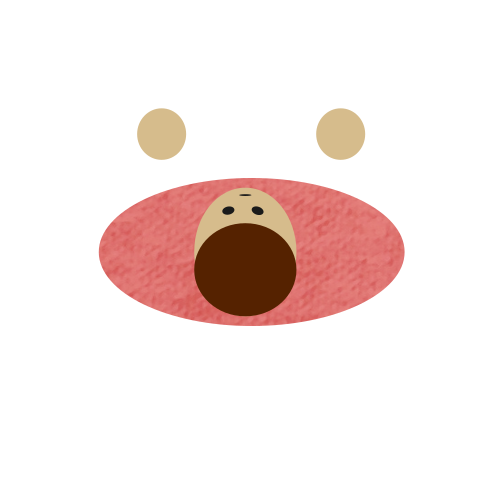
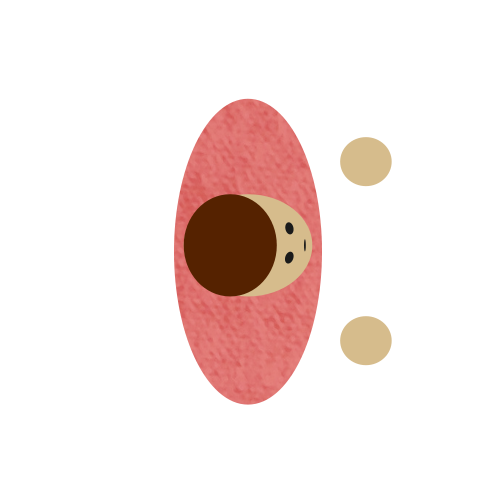
Yaka pull

Changed region(s): [[0.18, 0.18, 0.81, 0.81]]

diff --git a/src/drawing.rs b/src/drawing.rs
@@ -8,8 +8,8 @@ pub const OFFICE_HEIGHT: u32 = 900;
 pub const GAME_WINDOW_WIDTH: u32 = 1280;
 pub const GAME_WINDOW_HEIGHT: u32 = 720;
 
-pub const GLOBAL_STAT_WIDTH: u32 = 50;
-pub const GLOBAL_STAT_HEIGHT: u32 = 20;
+pub const GLOBAL_STAT_WIDTH: u32 = 1600;
+pub const GLOBAL_STAT_HEIGHT: u32 = 900;
 
 pub const PERSONNAL_STAT_WIDTH: u32 = 1600;
 pub const PERSONNAL_STAT_HEIGHT: u32 = 900;
@@ -43,6 +43,19 @@ pub struct Drawing {
     displayed_satisfaction: f32,
     displayed_energy: f32,
 
+    // Button
+    button_personnal_hope: Rect,
+    button_personnal_satiety: Rect,
+    button_personnal_energy: Rect,
+    button_personnal_satisfaction: Rect,
+
+    // Rect render
+    rect_office: Rect,
+    rect_info: Rect,
+    rect_personnal_stat: Rect,
+    rect_global_stat: Rect,
+
+    // Texture
     employee_texture: Texture2D,
 }
 
@@ -129,8 +142,72 @@ impl Drawing {
             displayed_satiety: 0.,
             displayed_satisfaction: 0.,
 
+            // Button
+            button_personnal_satisfaction: Rect::new(1200., 75., 300., 150.),
+            button_personnal_energy: Rect::new(1200., 275., 300., 150.),
+            button_personnal_satiety: Rect::new(1200., 475., 300., 150.),
+            button_personnal_hope: Rect::new(1200., 675., 300., 150.),
+
+            //Render rect
+            rect_office: Rect::new(
+                GAME_WINDOW_WIDTH as f32 * 0.3,
+                GAME_WINDOW_HEIGHT as f32 * 0.3,
+                GAME_WINDOW_WIDTH as f32 * 0.69,
+                GAME_WINDOW_HEIGHT as f32 * 0.69,
+            ),
+            rect_info: Rect::new(
+                GAME_WINDOW_WIDTH as f32 * 0.01,
+                GAME_WINDOW_HEIGHT as f32 * 0.3,
+                GAME_WINDOW_WIDTH as f32 * 0.28,
+                GAME_WINDOW_HEIGHT as f32 * 0.69,
+            ),
+            rect_personnal_stat: Rect::new(
+                GAME_WINDOW_WIDTH as f32 * 0.01,
+                GAME_WINDOW_HEIGHT as f32 * 0.01,
+                GAME_WINDOW_WIDTH as f32 * 0.28,
+                GAME_WINDOW_HEIGHT as f32 * 0.28,
+            ),
+            rect_global_stat: Rect::new(
+                GAME_WINDOW_WIDTH as f32 * 0.3,
+                GAME_WINDOW_HEIGHT as f32 * 0.01,
+                GAME_WINDOW_WIDTH as f32 * 0.69,
+                GAME_WINDOW_HEIGHT as f32 * 0.28,
+            ),
+
             employee_texture,
         }
+    }
+
+    pub fn get_rect_office(&self) -> &Rect {
+        &self.rect_office
+    }
+
+    pub fn get_rect_global_stat(&self) -> &Rect {
+        &self.rect_global_stat
+    }
+
+    pub fn get_rect_personnal_stat(&self) -> &Rect {
+        &self.rect_personnal_stat
+    }
+
+    pub fn get_rect_info(&self) -> &Rect {
+        &self.rect_info
+    }
+
+    pub fn get_button_hope(&self) -> &Rect {
+        &self.button_personnal_hope
+    }
+
+    pub fn get_button_satiety(&self) -> &Rect {
+        &self.button_personnal_satiety
+    }
+
+    pub fn get_button_energy(&self) -> &Rect {
+        &self.button_personnal_energy
+    }
+
+    pub fn get_button_satisfaction(&self) -> &Rect {
+        &self.button_personnal_satisfaction
     }
 
     fn draw_office(&self, game: &Game) {
@@ -144,7 +221,7 @@ impl Drawing {
                 WHITE,
                 DrawTextureParams {
                     source: None,
-                    rotation: e.get_rotation() + 90.,
+                    rotation: e.get_rotation(),
                     dest_size: Some(Vec2::new(500.0, 500.0)),
                     ..Default::default()
                 },
@@ -200,12 +277,58 @@ impl Drawing {
             draw_rectangle(100., 500., self.displayed_satiety, 100., BLUE);
 
             draw_rectangle(100., 700., self.displayed_hope, 100., GREEN);
+
+            draw_rectangle(
+                self.button_personnal_satiety.x,
+                self.button_personnal_satiety.y,
+                self.button_personnal_satiety.w,
+                self.button_personnal_satiety.h,
+                GREEN,
+            );
+            draw_rectangle(
+                self.button_personnal_energy.x,
+                self.button_personnal_energy.y,
+                self.button_personnal_energy.w,
+                self.button_personnal_energy.h,
+                GREEN,
+            );
+            draw_rectangle(
+                self.button_personnal_satisfaction.x,
+                self.button_personnal_satisfaction.y,
+                self.button_personnal_satisfaction.w,
+                self.button_personnal_satisfaction.h,
+                GREEN,
+            );
+            draw_rectangle(
+                self.button_personnal_hope.x,
+                self.button_personnal_hope.y,
+                self.button_personnal_hope.w,
+                self.button_personnal_hope.h,
+                GREEN,
+            );
         }
     }
 
-    fn draw_global_stat(&self) {
+    fn draw_global_stat(&self, game: &Game) {
         set_camera(&self.camera_global_stat);
         clear_background(WHITE);
+        draw_text(
+            &format!(
+                "Employees : {}",
+                game.get_office().employees_count().to_string()
+            ),
+            50.,
+            100.,
+            100.,
+            BLACK,
+        );
+        draw_text(
+            &format!("Money : {}", game.get_office().get_money()),
+            50.,
+            200.,
+            100.,
+            BLACK,
+        )
     }
 
     fn draw_game(&self) {
@@ -274,7 +397,7 @@ impl Drawing {
     }
 
     pub fn draw(&mut self, game: &Game) {
-        self.draw_global_stat();
+        self.draw_global_stat(game);
         self.draw_personnal_stat(game);
         self.draw_office(game);
         self.draw_info();

diff --git a/src/main.rs b/src/main.rs
@@ -3,7 +3,7 @@
 mod drawing;
 mod employee;
 
-use drawing::{Drawing, GAME_WINDOW_HEIGHT, GAME_WINDOW_WIDTH};
+use drawing::Drawing;
 use employee::Office;
 use macroquad::{experimental::coroutines::wait_seconds, prelude::*};
 
@@ -46,57 +46,33 @@ async fn main() {
     let mut drawing = drawing::Drawing::new();
     let mut game = Game::new();
 
-    let rect_office = Rect::new(
-        GAME_WINDOW_WIDTH as f32 * 0.3,
-        GAME_WINDOW_HEIGHT as f32 * 0.3,
-        GAME_WINDOW_WIDTH as f32 * 0.69,
-        GAME_WINDOW_HEIGHT as f32 * 0.69,
-    );
-
-    let rect_info = Rect::new(
-        GAME_WINDOW_WIDTH as f32 * 0.01,
-        GAME_WINDOW_HEIGHT as f32 * 0.3,
-        GAME_WINDOW_WIDTH as f32 * 0.28,
-        GAME_WINDOW_HEIGHT as f32 * 0.69,
-    );
-
-    let rect_personnal_stat = Rect::new(
-        GAME_WINDOW_WIDTH as f32 * 0.01,
-        GAME_WINDOW_HEIGHT as f32 * 0.01,
-        GAME_WINDOW_WIDTH as f32 * 0.28,
-        GAME_WINDOW_HEIGHT as f32 * 0.28,
-    );
-
-    let rect_global_stat = Rect::new(
-        GAME_WINDOW_WIDTH as f32 * 0.3,
-        GAME_WINDOW_HEIGHT as f32 * 0.01,
-        GAME_WINDOW_WIDTH as f32 * 0.69,
-        GAME_WINDOW_HEIGHT as f32 * 0.28,
-    );
-
     loop {
         let start_time = get_time();
 
         if is_mouse_button_pressed(MouseButton::Left) {
             let main_pos =
                 Drawing::convert_screen_main(vec2(mouse_position().0, mouse_position().1));
-            let rect_office = Rect::new(
-                GAME_WINDOW_WIDTH as f32 * 0.3,
-                GAME_WINDOW_HEIGHT as f32 * 0.3,
-                GAME_WINDOW_WIDTH as f32 * 0.69,
-                GAME_WINDOW_HEIGHT as f32 * 0.69,
-            );
 
-            if rect_office.contains(main_pos) {
+            if drawing.get_rect_office().contains(main_pos) {
                 game.get_mut_office()
                     .click(Drawing::convert_main_office(main_pos));
                 drawing.reset_displayed();
-            } else if rect_info.contains(main_pos) {
+            } else if drawing.get_rect_info().contains(main_pos) {
                 println!("{:?}", drawing.convert_main_info(main_pos))
-            } else if rect_global_stat.contains(main_pos) {
+            } else if drawing.get_rect_global_stat().contains(main_pos) {
                 println!("{:?}", drawing.convert_main_global_stat(main_pos))
-            } else if rect_personnal_stat.contains(main_pos) {
-                println!("{:?}", drawing.convert_main_personnal_stat(main_pos))
+            } else if drawing.get_rect_personnal_stat().contains(main_pos) {
+                let pos = drawing.convert_main_personnal_stat(main_pos);
+
+                if drawing.get_button_energy().contains(pos) {
+                    println!("button energy")
+                } else if drawing.get_button_hope().contains(pos) {
+                    println!("button hope")
+                } else if drawing.get_button_satiety().contains(pos) {
+                    println!("button satiety")
+                } else if drawing.get_button_satisfaction().contains(pos) {
+                    println!("button satisfaction")
+                }
             }
         }
 

diff --git a/src/employee.rs b/src/employee.rs
@@ -99,6 +99,10 @@ impl Office {
             }
         }
     }
+
+    pub fn get_money(&self) -> u64 {
+        self.money
+    }
 }
 
 const BASE_DECAY_RATE: f32 = 0.0001;
